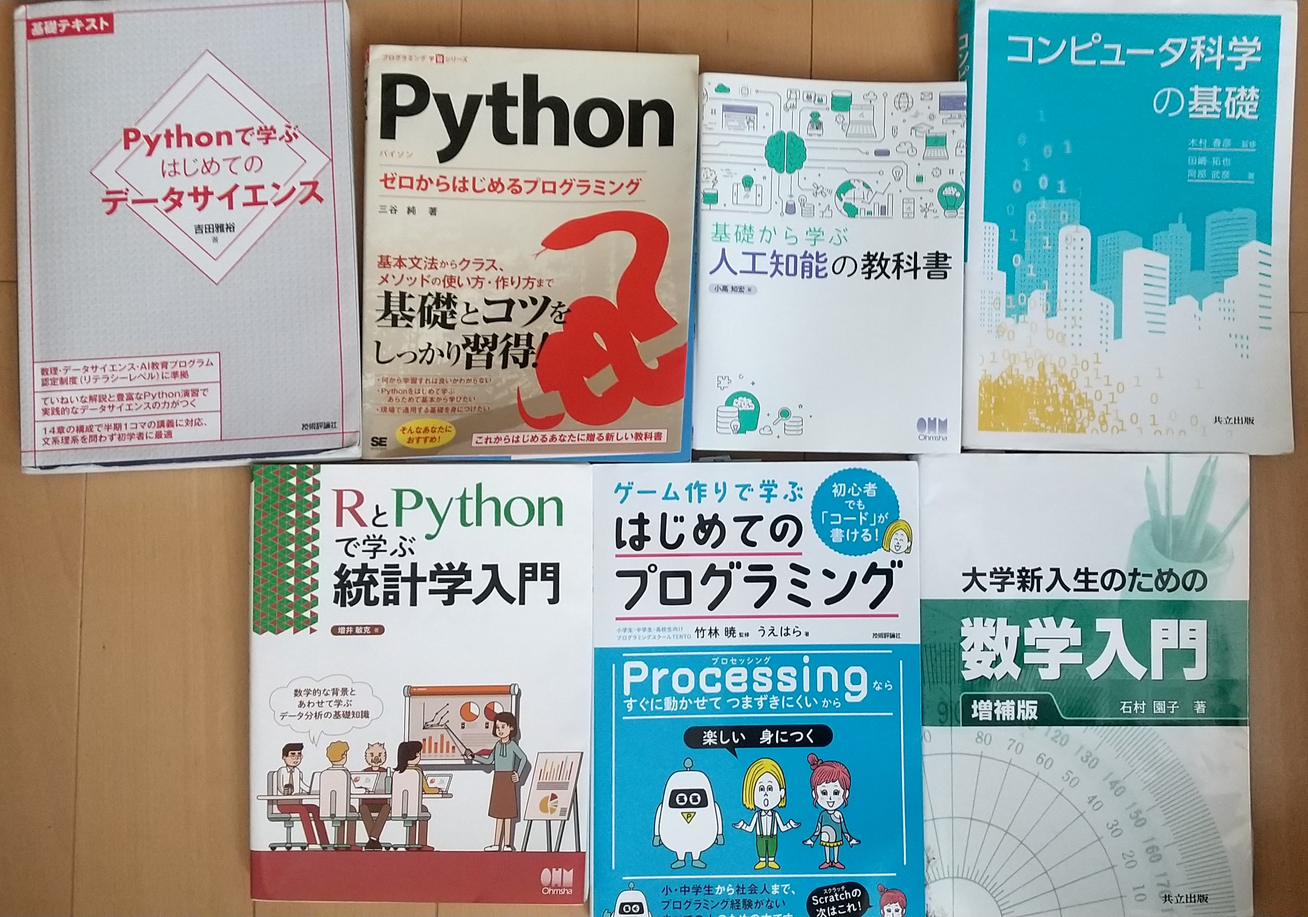
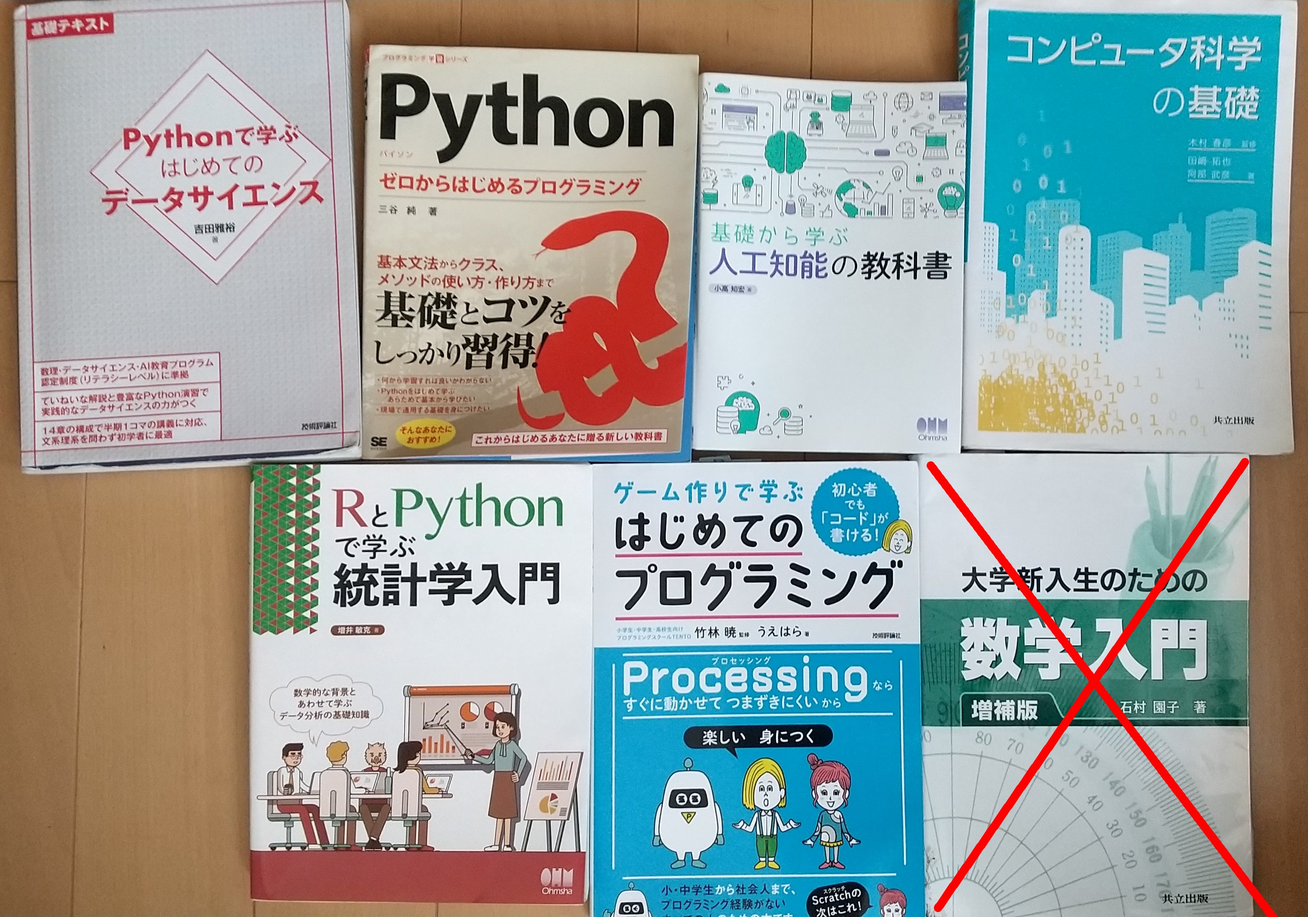
Change text

diff --git a/trade/index.html b/trade/index.html
@@ -102,7 +102,7 @@
 			<table border="1">
 				<tr><td>名称</td><td>定価(税込)</td><td>買い取り用金額</td></tr>
 				<tr><td>コンピューター科学の基礎</td><td>2,640</td><td>800</td></tr>
-				<tr><td>大学新入生のための数学入門</td><td>2,310</td><td>800</td></tr>
+				<tr><td>大学新入生のための数学入門</td><td>2,310</td><td><span class="rd">売り切れ</span></td></tr>
 				<tr><td>ゲーム作りで学ぶ初めてのプログラミング</td><td>2,280</td><td>800</td></tr>
 				<tr><td>RとPythonで学ぶ統計学入門</td><td>3,300</td><td>1000</td></tr>
 				<tr><td>基礎から学ぶ人工知能の教科書</td><td>2,970</td><td>1000</td></tr>

diff --git a/trade/des.css b/trade/des.css
@@ -65,3 +65,6 @@ width: 50%;
 	background: #FFFF80;
 	border: double 5px #4ec4d3;
 }
+.rd{
+	color: #ff0000;
+}
